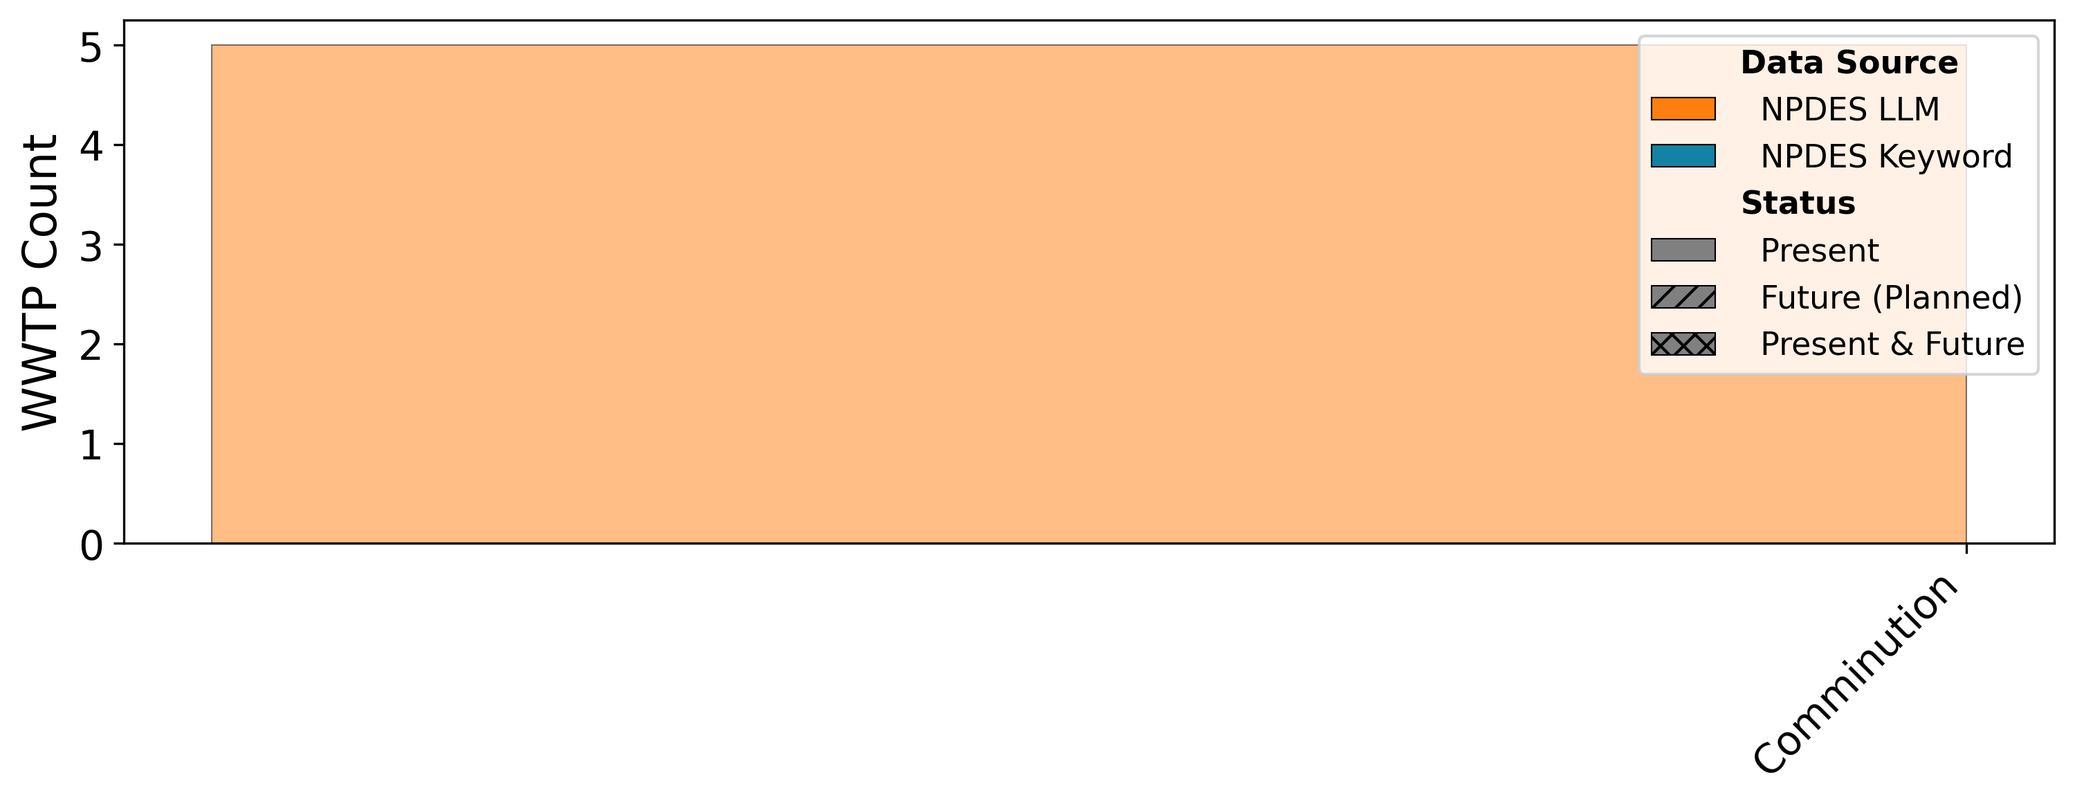
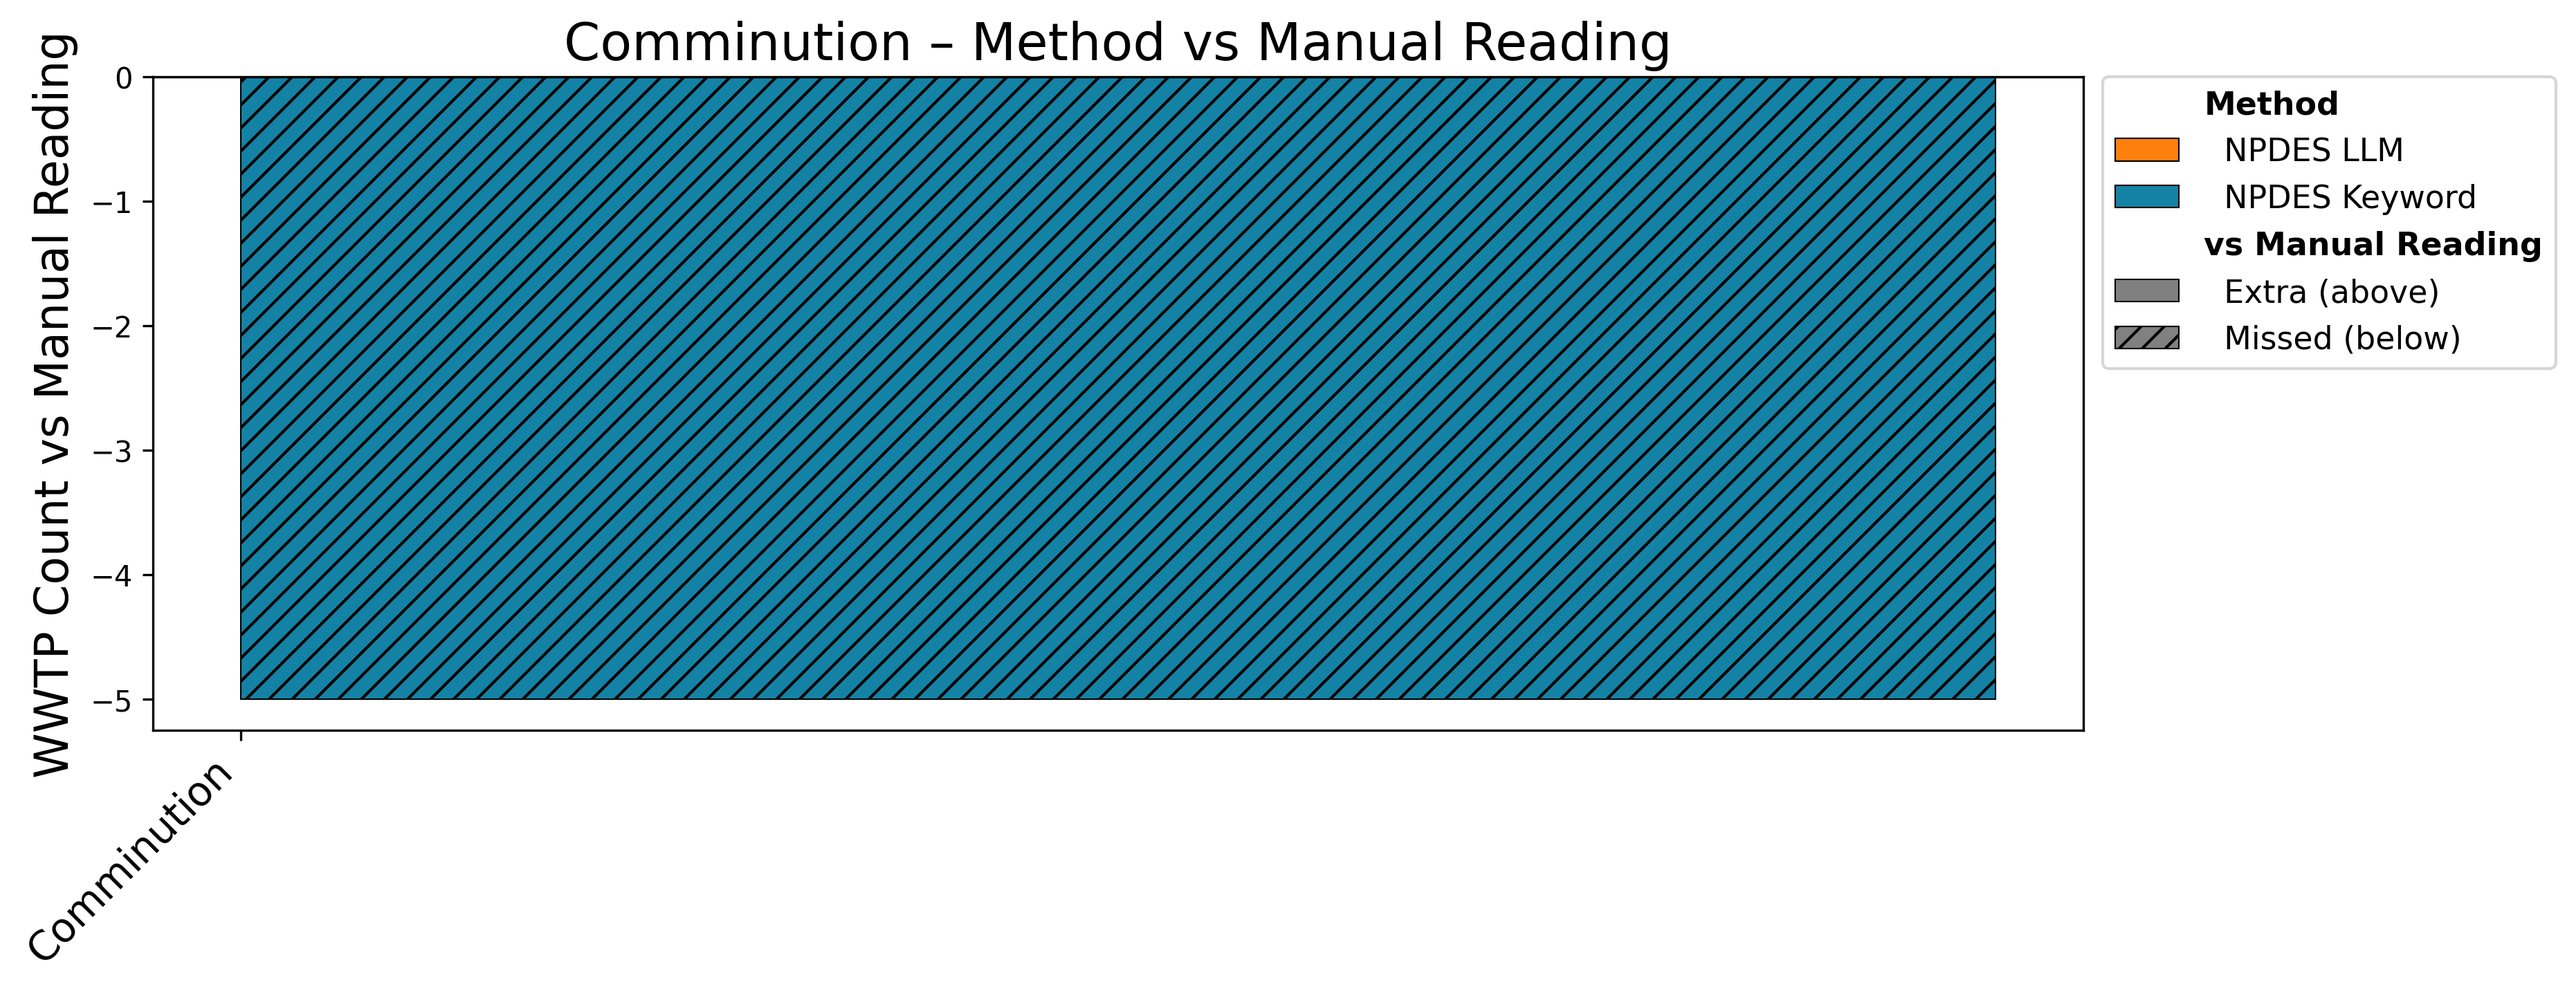
Fixing plotting bugs - only comparing keyword + LLM for facilities that have been run by both methods
Adding future to method and source comparisons

Adding SVCW & EBMUD to ground truth sources (instead of using all BACWA)

diff --git a/npdes_permits/step5_compile_results.py b/npdes_permits/step5_compile_results.py
@@ -7,8 +7,10 @@ import os
 
 from helpers.utils import *
 from helpers.plotting import COLORS, HATCH_PATTERNS, plot_status_bars
+from helpers.load_google_sheet import load_google_sheet_csv
 
 DATE_FOLDER = '2026-2-18'
+GOOGLE_SHEET_ID = '18U4IlfAiNH1UNdUYH5fF35fX99ll9SciKYRUuHUdT8w'
 
 
 def build_status_mask(df, process_name, unitprocess_keywords, status_filter):
@@ -99,6 +101,82 @@ def append_plot_data(plot_data, npdes_results_df, matching_cwns_results_df, pare
     return current_pos
 
 
+def create_method_deviation_plot(process_names, manual_df, llm_df, keyword_df,
+                                 category_name, figsize=(12, 5), fontsize=14, save_path=None):
+    """Plot LLM and keyword deviations from manual readings (above y=0: extra; below: missed)."""
+    manual_permits = set(manual_df['NPDES_No'].dropna())
+    llm_common = manual_permits & set(llm_df['PERMIT_NUMBER'].dropna()) if llm_df is not None else set()
+    kw_common  = manual_permits & set(keyword_df['PERMIT_NUMBER'].dropna())
+
+    rows = []
+    for process in process_names:
+        if process not in manual_df.columns:
+            continue
+        manual_proc  = set(manual_df.loc[manual_df[process].apply(is_yes), 'NPDES_No'])
+        manual_count = len(manual_proc)
+
+        llm_fp = llm_fn = 0
+        if llm_df is not None:
+            sub  = llm_df[llm_df['PERMIT_NUMBER'].isin(llm_common)]
+            mask = build_binary_mask(sub, process, None)
+            llm_proc = set(sub.loc[mask, 'PERMIT_NUMBER']) if mask is not None else set()
+            m = manual_proc & llm_common
+            llm_fp, llm_fn = len(llm_proc - m), len(m - llm_proc)
+
+        kw_fp = kw_fn = 0
+        sub  = keyword_df[keyword_df['PERMIT_NUMBER'].isin(kw_common)]
+        mask = build_binary_mask(sub, process, None)
+        kw_proc = set(sub.loc[mask, 'PERMIT_NUMBER']) if mask is not None else set()
+        m = manual_proc & kw_common
+        kw_fp, kw_fn = len(kw_proc - m), len(m - kw_proc)
+
+        if not any([llm_fp, llm_fn, kw_fp, kw_fn, manual_count]):
+            continue
+        rows.append({'Process': process, 'Manual_Count': manual_count,
+                     'LLM_FP': llm_fp, 'LLM_FN': llm_fn, 'KW_FP': kw_fp, 'KW_FN': kw_fn})
+
+    if not rows:
+        print(f"No deviation data for '{category_name}'")
+        return
+
+    df = pd.DataFrame(rows).sort_values('Manual_Count', ascending=False).reset_index(drop=True)
+    fig, ax = plt.subplots(figsize=figsize)
+    w = 0.18
+
+    for idx, row in df.iterrows():
+        for x_off, fp, fn, color in [(-w, row['LLM_FP'], row['LLM_FN'], COLORS['npdes_total']),
+                                      (+w, row['KW_FP'],  row['KW_FN'],  COLORS['npdes'])]:
+            if fp: ax.bar(idx + x_off, fp,  w * 2, color=color, edgecolor='black', linewidth=0.5)
+            if fn: ax.bar(idx + x_off, -fn, w * 2, color=color, hatch='///', edgecolor='black', linewidth=0.5)
+
+    ax.axhline(0, color='black', linewidth=0.8)
+    ax.set_xticks(range(len(df)))
+    ax.set_xticklabels(df['Process'], rotation=45, ha='right', fontsize=fontsize)
+    ax.yaxis.set_major_locator(plt.MaxNLocator(integer=True))
+    ax.set_ylabel('WWTP Count vs Manual Reading', fontsize=16)
+    ax.set_title(f'{category_name.replace("_", " ").title()} – Method vs Manual Reading', fontsize=18)
+
+    legend_handles = [
+        Patch(color='none', label='Method'),
+        Patch(facecolor=COLORS['npdes_total'], edgecolor='black', linewidth=0.5, label='  NPDES LLM'),
+        Patch(facecolor=COLORS['npdes'],       edgecolor='black', linewidth=0.5, label='  NPDES Keyword'),
+        Patch(color='none', label='vs Manual Reading'),
+        Patch(facecolor='gray', edgecolor='black', linewidth=0.5, label='  Extra (above)'),
+        Patch(facecolor='gray', hatch='///', edgecolor='black', linewidth=0.5, label='  Missed (below)'),
+    ]
+    leg = ax.legend(handles=legend_handles, loc='upper left',
+                    bbox_to_anchor=(1.01, 1), borderaxespad=0, fontsize=11)
+    for i, (h, t) in enumerate(zip(leg.legend_handles, leg.get_texts())):
+        if i in {0, 3}:
+            h.set_visible(False)
+            t.set_fontweight('bold')
+
+    plt.subplots_adjust(bottom=0.25)
+    if save_path:
+        plt.savefig(save_path, dpi=300, bbox_inches='tight')
+    plt.close(fig)
+
+
 def create_status_plot(plot_data, unit_process_results, category_name,
                        matching_cwns_data=None, unit_full_data=None, keyword_data=None,
                        match_only=True, include_cwns=True, include_legend=True,
@@ -173,15 +251,15 @@ def create_status_plot(plot_data, unit_process_results, category_name,
     ax.tick_params(axis='both', which='major', labelsize=fontsize)
 
     if include_legend:
-        llm_label = '  NPDES LLM (matched)' if match_only else '  NPDES LLM'
+        llm_label = 'NPDES LLM'
         legend_handles = [
             Patch(color='none', label='Data Source'),
             Patch(facecolor=COLORS['npdes_total'], edgecolor='black', linewidth=0.5, label=llm_label),
         ]
         if has_keyword:
-            legend_handles.append(Patch(facecolor=COLORS['npdes'], edgecolor='black', linewidth=0.5, label='  NPDES Keyword'))
+            legend_handles.append(Patch(facecolor=COLORS['npdes'], edgecolor='black', linewidth=0.5, label='NPDES Keyword'))
         if include_cwns:
-            legend_handles.append(Patch(facecolor=COLORS['cwns'], edgecolor='black', linewidth=0.5, label='  CWNS'))
+            legend_handles.append(Patch(facecolor=COLORS['cwns'], edgecolor='black', linewidth=0.5, label='CWNS'))
         n_sources = len(legend_handles)
         legend_handles += [
             Patch(color='none', label='Status'),
@@ -189,7 +267,8 @@ def create_status_plot(plot_data, unit_process_results, category_name,
             Patch(facecolor='gray', hatch=HATCH_PATTERNS['future'], edgecolor='black', linewidth=0.5, label='  Future (Planned)'),
             Patch(facecolor='gray', hatch=HATCH_PATTERNS['present_and_future'], edgecolor='black', linewidth=0.5, label='  Present & Future'),
         ]
-        leg = ax.legend(handles=legend_handles, loc='upper right', fontsize=11)
+        leg = ax.legend(handles=legend_handles, loc='upper left', bbox_to_anchor=(1.01, 1),
+                        borderaxespad=0, fontsize=11)
         header_indices = {0, n_sources}
         for i, (handle, text) in enumerate(zip(leg.legend_handles, leg.get_texts())):
             if i in header_indices:
@@ -369,9 +448,40 @@ unit_process_results = unit_process_results_matched
 llm_results_path = 'npdes_permits/output/llm_unit_processes_by_facility.csv'
 llm_results = pd.read_csv(llm_results_path) if os.path.exists(llm_results_path) else None
 if llm_results is not None:
+    # Normalize LLM status vocabulary to match keyword convention
+    # LLM uses 'planned'; keyword/CWNS pipeline uses 'future'
+    process_cols = [c for c in llm_results.columns if c not in ['PERMIT_NUMBER', 'Agency', 'Facility_Name']]
+    llm_results[process_cols] = llm_results[process_cols].replace('planned', 'future')
     print(f"LLM results: {len(llm_results)} facilities")
 else:
     print(f"LLM results not found at {llm_results_path}; breakdown plots will show keyword only")
+
+# Filter to facilities processed by BOTH methods for method comparison plots
+if llm_results is not None:
+    llm_permit_numbers = set(llm_results['PERMIT_NUMBER'].dropna())
+    kw_permit_numbers = set(unit_full['PERMIT_NUMBER'].dropna())
+    both_permit_numbers = llm_permit_numbers & kw_permit_numbers
+    llm_results_both = llm_results[llm_results['PERMIT_NUMBER'].isin(both_permit_numbers)].copy()
+    unit_full_both = unit_full[unit_full['PERMIT_NUMBER'].isin(both_permit_numbers)].copy()
+    print(f"Facilities processed by both LLM and keyword: {len(both_permit_numbers)} "
+          f"(LLM only: {len(llm_permit_numbers - kw_permit_numbers)}, "
+          f"keyword only: {len(kw_permit_numbers - llm_permit_numbers)})")
+else:
+    llm_results_both = None
+    unit_full_both = unit_full
+
+# Load manual readings (train + test) as the deviation baseline for method comparison plots
+train_manual = load_google_sheet_csv(GOOGLE_SHEET_ID, 'Train - From NPDES Text')
+test_manual  = pd.read_csv('npdes_permits/data/test_data.csv', dtype=str)
+manual_combined = (pd.concat([train_manual, test_manual])
+                   .drop_duplicates(subset='NPDES_No').reset_index(drop=True))
+manual_permits = set(manual_combined['NPDES_No'].dropna())
+llm_results_manual = (llm_results_both[llm_results_both['PERMIT_NUMBER'].isin(manual_permits)].copy()
+                      if llm_results_both is not None else None)
+unit_full_manual   = unit_full_both[unit_full_both['PERMIT_NUMBER'].isin(manual_permits)].copy()
+print(f"Manual baseline: {len(manual_combined)} facilities "
+      f"({len(manual_permits & set(unit_full_both['PERMIT_NUMBER']))} matched to keyword, "
+      f"{len(manual_permits & set(llm_results_both['PERMIT_NUMBER'])) if llm_results_both is not None else 0} matched to LLM)")
 
 figures_dir = f'npdes_permits/output/{DATE_FOLDER}/figures'
 if not os.path.exists(figures_dir):
@@ -411,15 +521,13 @@ for category in categories_to_plot:
     )
     print(f"  Saved {safe_category}_source_comparison.png")
 
-    # Status breakdown: all CA LLM vs keyword side-by-side
-    create_status_plot(
-        plot_data,
-        unit_process_results,
+    # Method vs manual reading: deviation bars above/below zero
+    create_method_deviation_plot(
+        process_names,
+        manual_combined,
+        llm_results_manual,
+        unit_full_manual,
         category,
-        unit_full_data=llm_results,
-        keyword_data=unit_full if llm_results is not None else None,
-        match_only=False,
-        include_cwns=False,
         save_path=f'npdes_permits/output/{DATE_FOLDER}/figures/{safe_category}_npdes_method_comparison.png'
     )
     print(f"  Saved {safe_category}_npdes_method_comparison.png")
@@ -443,7 +551,7 @@ create_status_plot(
     match_only=True,
     include_cwns=True,
     title_suffix=' - All Categories',
-    figsize=(20, 6),
+    figsize=(12, 4),
     fontsize=10,
     save_path=f'npdes_permits/output/{DATE_FOLDER}/figures/all_categories_source_comparison.png'
 )

diff --git a/npdes_permits/step0b_ground_truth.py b/npdes_permits/step0b_ground_truth.py
@@ -10,7 +10,7 @@ from helpers.load_google_sheet import load_google_sheet_csv
 
 DATE_FOLDER = '2026-2-18'
 GOOGLE_SHEET_ID = '18U4IlfAiNH1UNdUYH5fF35fX99ll9SciKYRUuHUdT8w'
-BACWA_PLOT_CATEGORIES = ['Activated Sludge', 'Lagoon', 'Nutrient Removal', 'Filtration']
+# BACWA_PLOT_CATEGORIES = ['Activated Sludge', 'Lagoon', 'Nutrient Removal', 'Filtration']
 
 
 def build_category_facility_sets(process_cols, gt_common, text_common, cwns_common,
@@ -116,23 +116,22 @@ for cat_name, cat_value in unitprocess_keywords.items():
 
 ground_truth_df     = load_google_sheet_csv(GOOGLE_SHEET_ID, 'Train - Ground Truth')
 npdes_text_df       = load_google_sheet_csv(GOOGLE_SHEET_ID, 'Train - From NPDES Text')
-bacwa_ground_truth_df = load_google_sheet_csv(GOOGLE_SHEET_ID, 'BACWA - Ground Truth')
-bacwa_npdes_text_df   = load_google_sheet_csv(GOOGLE_SHEET_ID, 'BACWA - From NPDES Text')
+# bacwa_ground_truth_df = load_google_sheet_csv(GOOGLE_SHEET_ID, 'BACWA - Ground Truth')
+# bacwa_npdes_text_df   = load_google_sheet_csv(GOOGLE_SHEET_ID, 'BACWA - From NPDES Text')
 
 print(f"GroundTruth sheet: {len(ground_truth_df)} facilities")
 print(f"NPDES Text sheet: {len(npdes_text_df)} facilities")
-print(f"BACWA Ground Truth sheet: {len(bacwa_ground_truth_df)} facilities")
-print(f"BACWA NPDES Text sheet: {len(bacwa_npdes_text_df)} facilities")
+# print(f"BACWA Ground Truth sheet: {len(bacwa_ground_truth_df)} facilities")
+# print(f"BACWA NPDES Text sheet: {len(bacwa_npdes_text_df)} facilities")
 
 meta_cols = ['Agency', 'Facility_Name', 'NPDES_No', 'PDF_File', "Ground Truth Sources"]
 
 ground_truth_process_cols    = [c for c in ground_truth_df.columns    if c not in meta_cols]
 npdes_text_process_cols      = [c for c in npdes_text_df.columns      if c not in meta_cols]
-bacwa_ground_truth_process_cols = [c for c in bacwa_ground_truth_df.columns if c not in meta_cols]
-bacwa_npdes_text_process_cols   = [c for c in bacwa_npdes_text_df.columns   if c not in meta_cols]
+# bacwa_ground_truth_process_cols = [c for c in bacwa_ground_truth_df.columns if c not in meta_cols]
+# bacwa_npdes_text_process_cols   = [c for c in bacwa_npdes_text_df.columns   if c not in meta_cols]
 
 all_sheet_process_cols = list(dict.fromkeys(ground_truth_process_cols + npdes_text_process_cols))
-all_bacwa_process_cols = list(dict.fromkeys(bacwa_ground_truth_process_cols + bacwa_npdes_text_process_cols))
 
 # TRAIN ground truth comparison
 
@@ -227,33 +226,39 @@ gt_comparison_df.to_csv(gt_comparison_csv, index=False)
 print(f"Saved facility-level comparison: {os.path.basename(gt_comparison_csv)}")
 
 
-# BACWA ground truth comparison (4-category bar plot)
+# # BACWA ground truth comparison (4-category bar plot)
 
-bacwa_gt_permits   = set(bacwa_ground_truth_df['NPDES_No'].dropna().str.strip())
-bacwa_text_permits = set(bacwa_npdes_text_df['NPDES_No'].dropna().str.strip())
-bacwa_cwns_permits = set(ca_cwns_data['linking_permit'].dropna().str.strip())
-bacwa_common       = bacwa_gt_permits & bacwa_text_permits & bacwa_cwns_permits
-print(f"\nFacilities in all 3 sources (BACWA): {len(bacwa_common)}")
+# bacwa_gt_permits   = set(bacwa_ground_truth_df['NPDES_No'].dropna().str.strip())
+# bacwa_text_permits = set(bacwa_npdes_text_df['NPDES_No'].dropna().str.strip())
+# bacwa_cwns_permits = set(ca_cwns_data['linking_permit'].dropna().str.strip())
+# bacwa_common       = bacwa_gt_permits & bacwa_text_permits & bacwa_cwns_permits
+# print(f"\nFacilities in all 3 sources (BACWA): {len(bacwa_common)}")
 
-bacwa_gt_common   = bacwa_ground_truth_df[bacwa_ground_truth_df['NPDES_No'].str.strip().isin(bacwa_common)].copy()
-bacwa_text_common = bacwa_npdes_text_df[bacwa_npdes_text_df['NPDES_No'].str.strip().isin(bacwa_common)].copy()
-bacwa_cwns_common = ca_cwns_data[ca_cwns_data['linking_permit'].str.strip().isin(bacwa_common)].copy()
+# bacwa_gt_common   = bacwa_ground_truth_df[bacwa_ground_truth_df['NPDES_No'].str.strip().isin(bacwa_common)].copy()
+# bacwa_text_common = bacwa_npdes_text_df[bacwa_npdes_text_df['NPDES_No'].str.strip().isin(bacwa_common)].copy()
+# bacwa_cwns_common = ca_cwns_data[ca_cwns_data['linking_permit'].str.strip().isin(bacwa_common)].copy()
 
-bacwa_gt_fac, bacwa_npdes_fac, bacwa_cwns_fac = build_category_facility_sets(
-    all_bacwa_process_cols, bacwa_gt_common, bacwa_text_common, bacwa_cwns_common,
-    leaf_to_category,
-)
+# bacwa_gt_fac, bacwa_npdes_fac, bacwa_cwns_fac = build_category_facility_sets(
+#     all_sheet_process_cols, bacwa_gt_common, bacwa_text_common, bacwa_cwns_common,
+#     leaf_to_category,
+# )
 
-bacwa_gt_rows = build_gt_rows(bacwa_gt_fac, bacwa_npdes_fac, bacwa_cwns_fac, bacwa_common)
-bacwa_filtered_rows = [r for r in bacwa_gt_rows if r['Process_Category'] in BACWA_PLOT_CATEGORIES]
+# bacwa_gt_rows = build_gt_rows(bacwa_gt_fac, bacwa_npdes_fac, bacwa_cwns_fac, bacwa_common)
+# bacwa_filtered_rows = [r for r in bacwa_gt_rows if r['Process_Category'] in BACWA_PLOT_CATEGORIES]
 
-create_ground_truth_plot(
-    bacwa_filtered_rows,
-    n_facilities=len(bacwa_common),
-    save_path=f'{figures_dir}/bacwa_ground_truth_vs_npdes_text_vs_cwns.png',
-)
+# create_ground_truth_plot(
+#     bacwa_filtered_rows,
+#     n_facilities=len(bacwa_common),
+#     save_path=f'{figures_dir}/bacwa_ground_truth_vs_npdes_text_vs_cwns.png',
+# )
 
-# pring overall % error vs ground truth for both data sources (summary)
-cwns_overall_error = sum(r['CWNS_FP'] + r['CWNS_FN'] for r in gt_simple_rows) / sum(r['GroundTruth'] for r in gt_simple_rows)
-npdes_overall_error = sum(r['NPDES_FP'] + r['NPDES_FN'] for r in gt_simple_rows) / sum(r['GroundTruth'] for r in gt_simple_rows)
-print(f"\nOverall error vs Ground Truth: CWNS = {cwns_overall_error:.1%}, NPDES Text = {npdes_overall_error:.1%}")  
+# Overall error vs ground truth — only for categories where GT > 0
+# (Categories with GT=0 but CWNS>0 would inflate the ratio unboundedly)
+gt_rows_with_gt = [r for r in gt_simple_rows if r['GroundTruth'] > 0]
+if gt_rows_with_gt:
+    cwns_overall_error = sum(r['CWNS_FP'] + r['CWNS_FN'] for r in gt_rows_with_gt) / sum(r['GroundTruth'] for r in gt_rows_with_gt)
+    npdes_overall_error = sum(r['NPDES_FP'] + r['NPDES_FN'] for r in gt_rows_with_gt) / sum(r['GroundTruth'] for r in gt_rows_with_gt)
+    gt_zero_cwns_fp = sum(r['CWNS_FP'] for r in gt_simple_rows if r['GroundTruth'] == 0)
+    print(f"\nOverall error vs Ground Truth (categories with GT>0): CWNS = {cwns_overall_error:.1%}, NPDES Text = {npdes_overall_error:.1%}")
+    if gt_zero_cwns_fp:
+        print(f"  (CWNS also has {gt_zero_cwns_fp} FP detections in categories with no ground truth annotations)")  

diff --git a/npdes_permits/helpers/plotting.py b/npdes_permits/helpers/plotting.py
@@ -85,13 +85,19 @@ def create_ground_truth_plot(gt_rows, n_facilities, save_path):
     ax2.tick_params(axis='y', labelsize=fontsize)
 
     legend_handles = [
-        Patch(facecolor=COLORS_GT['npdes_text'], edgecolor='black', linewidth=0.5, label='NPDES Text'),
-        Patch(facecolor=COLORS_GT['cwns'], edgecolor='black', linewidth=0.5, label='CWNS'),
-        Patch(color='none', label=''),
-        Patch(facecolor='white', edgecolor='black', linewidth=0.5, hatch='--', label='False Negative (missed)'),
-        Patch(facecolor='white', edgecolor='black', linewidth=0.5, hatch='++', label='False Positive (extra)'),
+        Patch(color='none', label='Data Source'),
+        Patch(facecolor=COLORS_GT['npdes_text'], edgecolor='black', linewidth=0.5, label='  NPDES Text'),
+        Patch(facecolor=COLORS_GT['cwns'], edgecolor='black', linewidth=0.5, label='  CWNS'),
+        Patch(color='none', label='Error Type'),
+        Patch(facecolor='white', edgecolor='black', linewidth=0.5, hatch='--', label='  False Negative (missed)'),
+        Patch(facecolor='white', edgecolor='black', linewidth=0.5, hatch='++', label='  False Positive (extra)'),
     ]
-    ax.legend(handles=legend_handles, loc='upper left', fontsize=11, handlelength=2, handleheight=1.2)
+    leg = ax.legend(handles=legend_handles, loc='upper left', bbox_to_anchor=(1.15, 1),
+                    borderaxespad=0, fontsize=11, handlelength=2, handleheight=1.2)
+    for i, (h, t) in enumerate(zip(leg.legend_handles, leg.get_texts())):
+        if i in {0, 3}:
+            h.set_visible(False)
+            t.set_fontweight('bold')
 
     plt.subplots_adjust(bottom=0.35)
     if save_path:

diff --git a/npdes_permits/helpers/utils.py b/npdes_permits/helpers/utils.py
@@ -165,10 +165,10 @@ def match_cwns_to_npdes(consolidated_cwns, npdes_permits_set, npdes_name_to_perm
 
 
 def is_yes(val):
-    """Check if a cell value means the process is present (YES or PLANNED)."""
-    return str(val).strip().upper() in ('YES', 'PLANNED')
+    """Check if a cell value means the process is present (YES, PLANNED, or PRESENT)."""
+    return str(val).strip().upper() in ('YES', 'PLANNED', 'PRESENT')
 
 
 def count_yes(series):
-    """Count YES/PLANNED values in a sheet column (case-insensitive)."""
+    """Count YES/PLANNED/PRESENT values in a sheet column (case-insensitive)."""
     return series.fillna('').apply(is_yes).sum()
